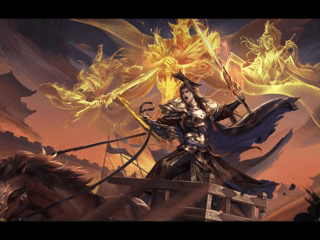
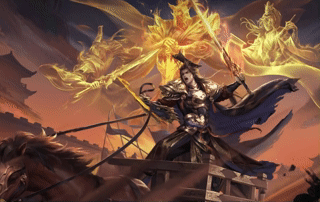
修复了我也要死吗的亡语以及公主的宝具动画

diff --git a/qml/kongxiangjvxianhua.qml b/qml/kongxiangjvxianhua.qml
@@ -4,42 +4,64 @@ import QtQuick.Controls 2.5
 
 Item {
     id: root
-    scale: 0.75
     anchors.fill: parent
 
+    // 透明遮罩（无黑框）
     Rectangle {
         id: mask
-        scale: 1 / 0.75
         anchors.fill: parent
-        color: "black"
-        opacity: 0.7
+        color: "transparent"
     }
-    
+
     AnimatedImage {
         id: animation
         source: "../videos/kongxiangjvxianhua.gif"
-        anchors.fill: parent
         asynchronous: true
         cache: false
         playing: true
+
+        // 动态计算位置和大小，保持比例且尽量充满屏幕
+        width: {
+            var screenRatio = parent.width / parent.height
+            var gifRatio = implicitWidth / implicitHeight
+            if (gifRatio > screenRatio) {
+                // GIF 更宽，宽度撑满，高度自适应
+                return parent.width
+            } else {
+                // GIF 更高，高度撑满，宽度自适应
+                return parent.width * (gifRatio / screenRatio)
+            }
+        }
+        height: {
+            var screenRatio = parent.width / parent.height
+            var gifRatio = implicitWidth / implicitHeight
+            if (gifRatio > screenRatio) {
+                // 宽度撑满，高度按比例
+                return parent.width / gifRatio
+            } else {
+                // 高度撑满
+                return parent.height
+            }
+        }
+        x: (parent.width - width) / 2
+        y: (parent.height - height) / 2
     }
-    
+
+    // 辅助矩形，用于检测最后一帧并停止播放
     Rectangle {
         property int frames: animation.frameCount
         property int gframes: animation.currentFrame
-
         width: 2
         height: 2
-        x: (animation.width - width) * animation.currentFrame / frames
+        x: (animation.width - width) * animation.currentFrame / (frames > 0 ? frames : 1)
         y: animation.height
-        color: "red"
-        
+        color: "transparent"
+
         onGframesChanged: {
-            // 当动画播放到最后一帧时，停止动画并清空roomScene.bigAnim.source
-            if (animation.currentFrame === animation.frameCount - 1) {
+            if (frames > 0 && animation.currentFrame === frames - 1) {
                 animation.playing = false
-                animation.source = ""
-                roomScene.bigAnim.source = ""
+                animation.source = ""  // 释放资源
+                //close()  // 关闭 LightBox
             }
         }
     }

diff --git a/qml/diyitaiyang1.qml b/qml/diyitaiyang1.qml
@@ -4,42 +4,64 @@ import QtQuick.Controls 2.5
 
 Item {
     id: root
-    scale: 0.75
     anchors.fill: parent
 
+    // 透明遮罩（无黑框）
     Rectangle {
         id: mask
-        scale: 1 / 0.75
         anchors.fill: parent
-        color: "black"
-        opacity: 0.7
+        color: "transparent"
     }
-    
+
     AnimatedImage {
         id: animation
         source: "../videos/diyitaiyang1.gif"
-        anchors.fill: parent
         asynchronous: true
         cache: false
         playing: true
+
+        // 动态计算位置和大小，保持比例且尽量充满屏幕
+        width: {
+            var screenRatio = parent.width / parent.height
+            var gifRatio = implicitWidth / implicitHeight
+            if (gifRatio > screenRatio) {
+                // GIF 更宽，宽度撑满，高度自适应
+                return parent.width
+            } else {
+                // GIF 更高，高度撑满，宽度自适应
+                return parent.width * (gifRatio / screenRatio)
+            }
+        }
+        height: {
+            var screenRatio = parent.width / parent.height
+            var gifRatio = implicitWidth / implicitHeight
+            if (gifRatio > screenRatio) {
+                // 宽度撑满，高度按比例
+                return parent.width / gifRatio
+            } else {
+                // 高度撑满
+                return parent.height
+            }
+        }
+        x: (parent.width - width) / 2
+        y: (parent.height - height) / 2
     }
-    
+
+    // 辅助矩形，用于检测最后一帧并停止播放
     Rectangle {
         property int frames: animation.frameCount
         property int gframes: animation.currentFrame
-
         width: 2
         height: 2
-        x: (animation.width - width) * animation.currentFrame / frames
+        x: (animation.width - width) * animation.currentFrame / (frames > 0 ? frames : 1)
         y: animation.height
-        color: "red"
-        
+        color: "transparent"
+
         onGframesChanged: {
-            // 当动画播放到最后一帧时，停止动画并清空roomScene.bigAnim.source
-            if (animation.currentFrame === animation.frameCount - 1) {
+            if (frames > 0 && animation.currentFrame === frames - 1) {
                 animation.playing = false
-                animation.source = ""
-                roomScene.bigAnim.source = ""
+                animation.source = ""  // 释放资源
+                //close()  // 关闭 LightBox
             }
         }
     }

diff --git a/qml/diyitaiyang2.qml b/qml/diyitaiyang2.qml
@@ -4,42 +4,64 @@ import QtQuick.Controls 2.5
 
 Item {
     id: root
-    scale: 0.75
     anchors.fill: parent
 
+    // 透明遮罩（无黑框）
     Rectangle {
         id: mask
-        scale: 1 / 0.75
         anchors.fill: parent
-        color: "black"
-        opacity: 0.7
+        color: "transparent"
     }
-    
+
     AnimatedImage {
         id: animation
         source: "../videos/diyitaiyang2.gif"
-        anchors.fill: parent
         asynchronous: true
         cache: false
         playing: true
+
+        // 动态计算位置和大小，保持比例且尽量充满屏幕
+        width: {
+            var screenRatio = parent.width / parent.height
+            var gifRatio = implicitWidth / implicitHeight
+            if (gifRatio > screenRatio) {
+                // GIF 更宽，宽度撑满，高度自适应
+                return parent.width
+            } else {
+                // GIF 更高，高度撑满，宽度自适应
+                return parent.width * (gifRatio / screenRatio)
+            }
+        }
+        height: {
+            var screenRatio = parent.width / parent.height
+            var gifRatio = implicitWidth / implicitHeight
+            if (gifRatio > screenRatio) {
+                // 宽度撑满，高度按比例
+                return parent.width / gifRatio
+            } else {
+                // 高度撑满
+                return parent.height
+            }
+        }
+        x: (parent.width - width) / 2
+        y: (parent.height - height) / 2
     }
-    
+
+    // 辅助矩形，用于检测最后一帧并停止播放
     Rectangle {
         property int frames: animation.frameCount
         property int gframes: animation.currentFrame
-
         width: 2
         height: 2
-        x: (animation.width - width) * animation.currentFrame / frames
+        x: (animation.width - width) * animation.currentFrame / (frames > 0 ? frames : 1)
         y: animation.height
-        color: "red"
-        
+        color: "transparent"
+
         onGframesChanged: {
-            // 当动画播放到最后一帧时，停止动画并清空roomScene.bigAnim.source
-            if (animation.currentFrame === animation.frameCount - 1) {
+            if (frames > 0 && animation.currentFrame === frames - 1) {
                 animation.playing = false
-                animation.source = ""
-                roomScene.bigAnim.source = ""
+                animation.source = ""  // 释放资源
+                //close()  // 关闭 LightBox
             }
         }
     }

diff --git a/qml/juejin.qml b/qml/juejin.qml
@@ -4,42 +4,64 @@ import QtQuick.Controls 2.5
 
 Item {
     id: root
-    scale: 0.75
     anchors.fill: parent
 
+    // 透明遮罩（无黑框）
     Rectangle {
         id: mask
-        scale: 1 / 0.75
         anchors.fill: parent
-        color: "black"
-        opacity: 0.7
+        color: "transparent"
     }
-    
+
     AnimatedImage {
         id: animation
         source: "../videos/juejin.gif"
-        anchors.fill: parent
         asynchronous: true
         cache: false
         playing: true
+
+        // 动态计算位置和大小，保持比例且尽量充满屏幕
+        width: {
+            var screenRatio = parent.width / parent.height
+            var gifRatio = implicitWidth / implicitHeight
+            if (gifRatio > screenRatio) {
+                // GIF 更宽，宽度撑满，高度自适应
+                return parent.width
+            } else {
+                // GIF 更高，高度撑满，宽度自适应
+                return parent.width * (gifRatio / screenRatio)
+            }
+        }
+        height: {
+            var screenRatio = parent.width / parent.height
+            var gifRatio = implicitWidth / implicitHeight
+            if (gifRatio > screenRatio) {
+                // 宽度撑满，高度按比例
+                return parent.width / gifRatio
+            } else {
+                // 高度撑满
+                return parent.height
+            }
+        }
+        x: (parent.width - width) / 2
+        y: (parent.height - height) / 2
     }
-    
+
+    // 辅助矩形，用于检测最后一帧并停止播放
     Rectangle {
         property int frames: animation.frameCount
         property int gframes: animation.currentFrame
-
         width: 2
         height: 2
-        x: (animation.width - width) * animation.currentFrame / frames
+        x: (animation.width - width) * animation.currentFrame / (frames > 0 ? frames : 1)
         y: animation.height
-        color: "red"
-        
+        color: "transparent"
+
         onGframesChanged: {
-            // 当动画播放到最后一帧时，停止动画并清空roomScene.bigAnim.source
-            if (animation.currentFrame === animation.frameCount - 1) {
+            if (frames > 0 && animation.currentFrame === frames - 1) {
                 animation.playing = false
-                animation.source = ""
-                roomScene.bigAnim.source = ""
+                animation.source = ""  // 释放资源
+                //close()  // 关闭 LightBox
             }
         }
     }
